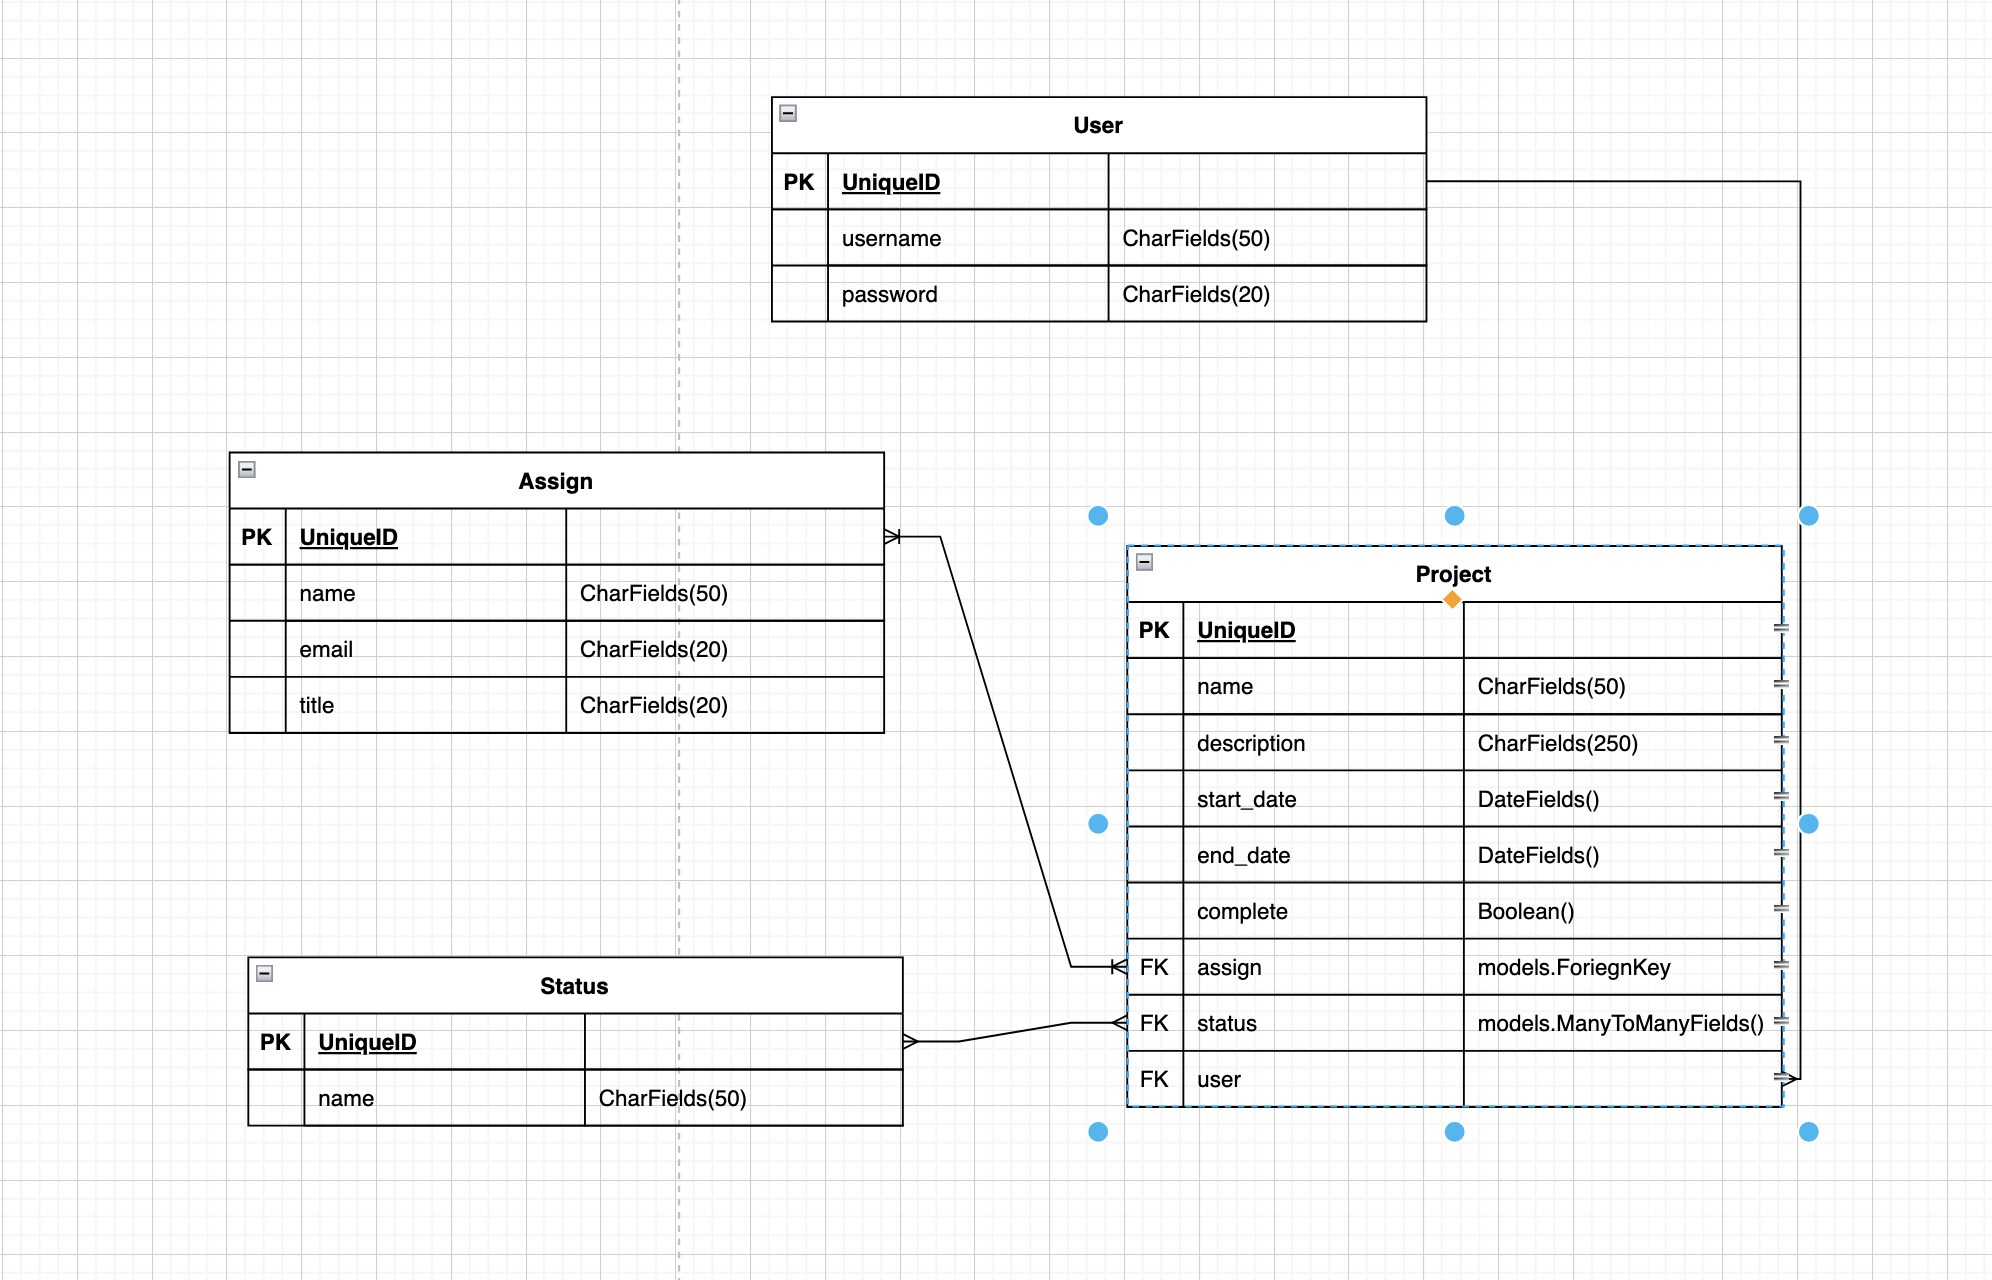
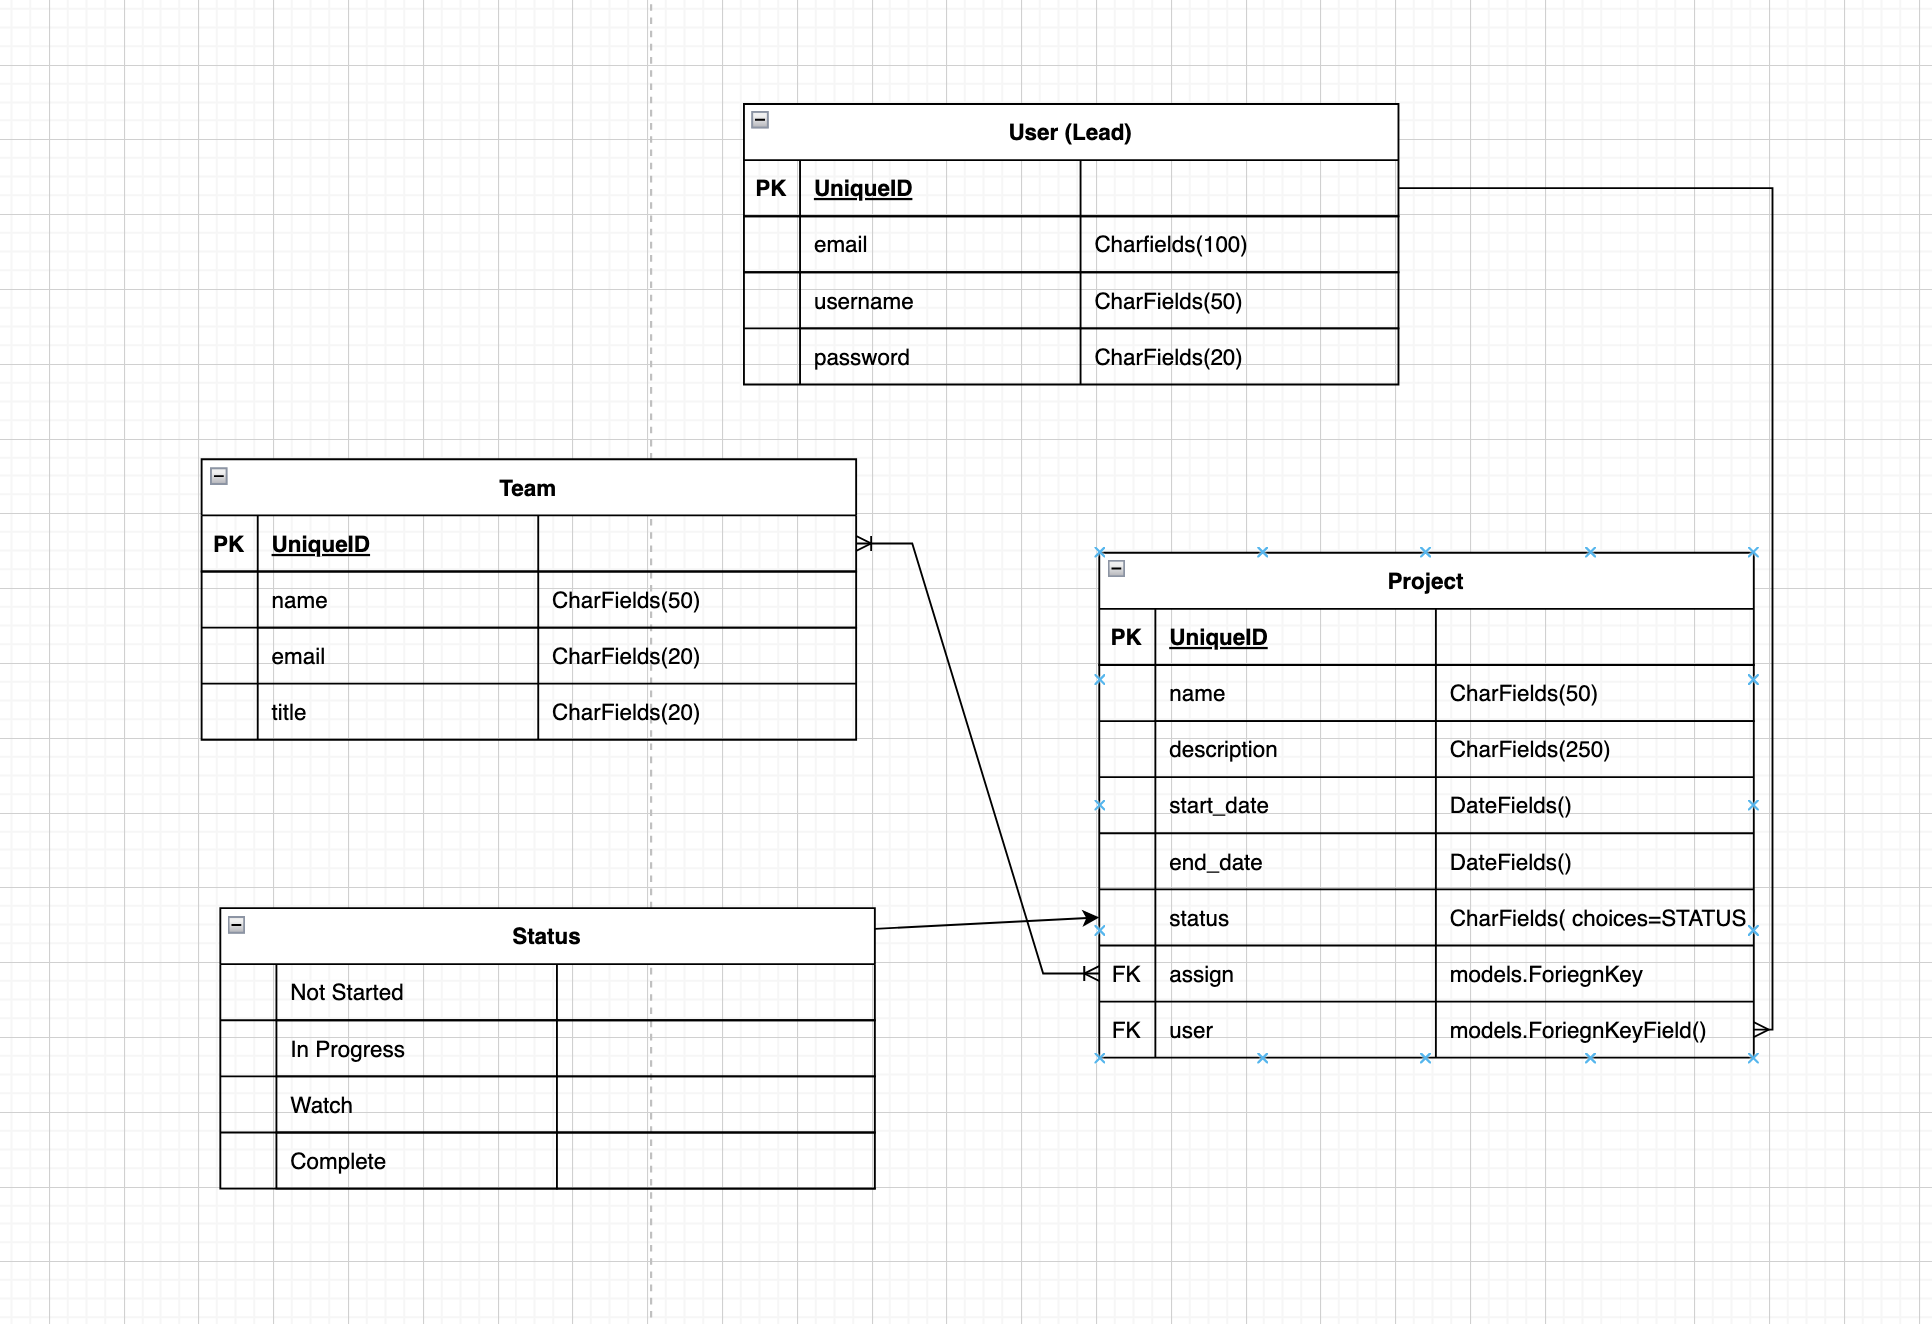
Wireframe + ERD

diff --git a/README.md b/README.md
@@ -5,6 +5,11 @@
 
 ## About
 The intend of this project is to effectly track project. 
+1. Project Management app 
+- Main user create the app 
+- Project has tasks 
+- task has categories
+
 
 ## User Stories (As a User)
 ##### Login/ Signup
@@ -19,7 +24,7 @@ The intend of this project is to effectly track project.
 * AAU, I want to set start & end date
 * AAU, I want to assign to employees
 * AAU, I want to select from a drop down of current status of the project
-##### Assign Page
+##### Team Page
 * AAU, I would input their name, title, email
 ##### Status page
 * AAU, I want to set status name
@@ -28,16 +33,14 @@ The intend of this project is to effectly track project.
 ![Alt text](/ImageFile/ERD.png "ERD")
 
 ## WireFrame 
-![Alt text](/ImageFile/WireFrame.png "Wire Frame")
+![Alt text](/ImageFile/WireFrame_1.png "Wire Frame_1")
+![Alt text](/ImageFile/WireFrame_2.png "Wire Frame_1")
 
 ## Technology Used 
 
 
 
-1. Project Management app 
-- Main user create the app 
-- Project has tasks 
-- task has categories
+
 
 ## Future Enhancement  
 
